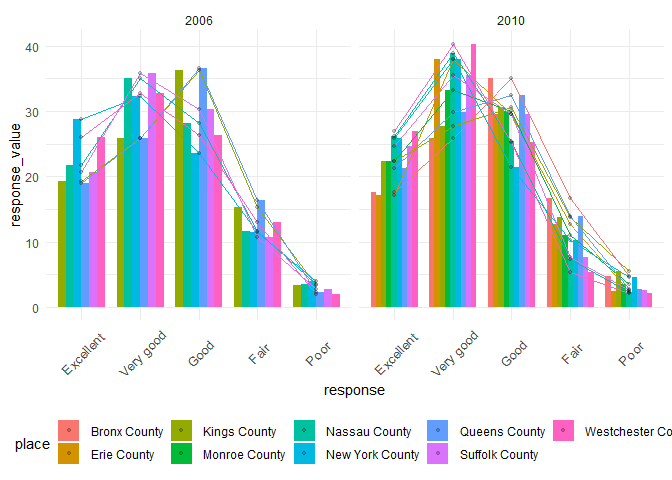
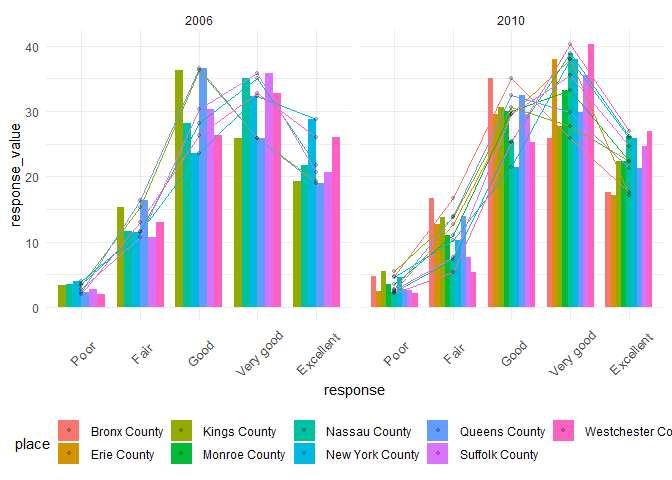
plot in problem 2 change

diff --git a/p8105_hw3_gx2144.md b/p8105_hw3_gx2144.md
@@ -233,7 +233,7 @@ brfss_smart2010 = brfss_smart2010 %>%
            response %in% c("Excellent","Very good","Fair","Good","Poor")) %>%
   mutate(
     response = factor(response, 
-    levels = c("Excellent","Very good","Good","Fair","Poor"))
+    levels = c("Poor","Fair","Good","Very good","Excellent"))
          ) 
 ```
 
